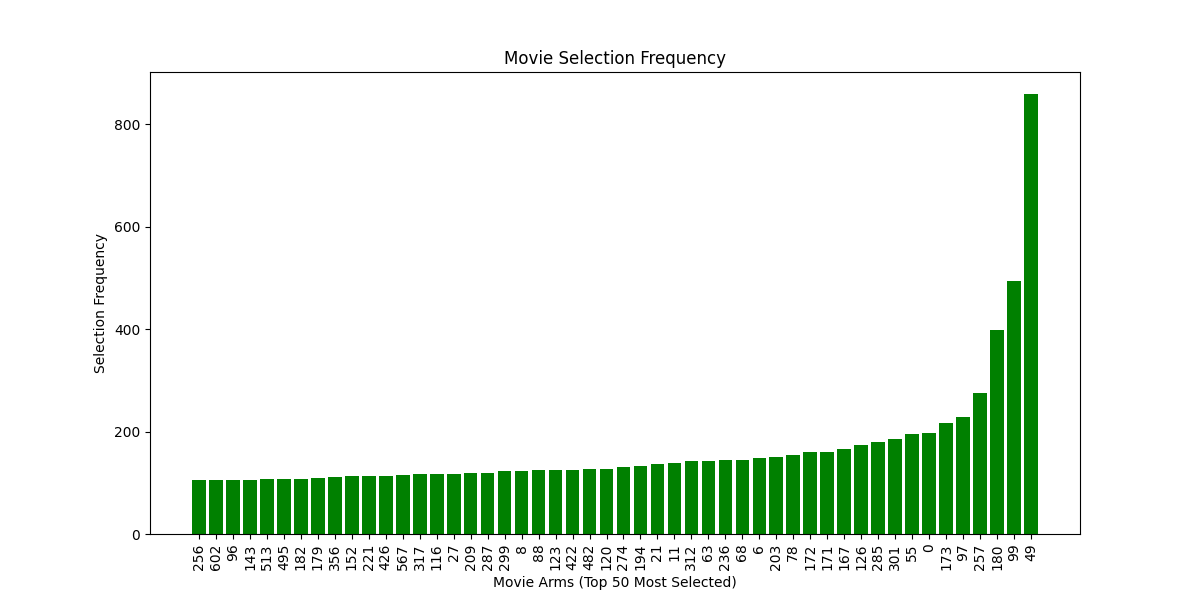
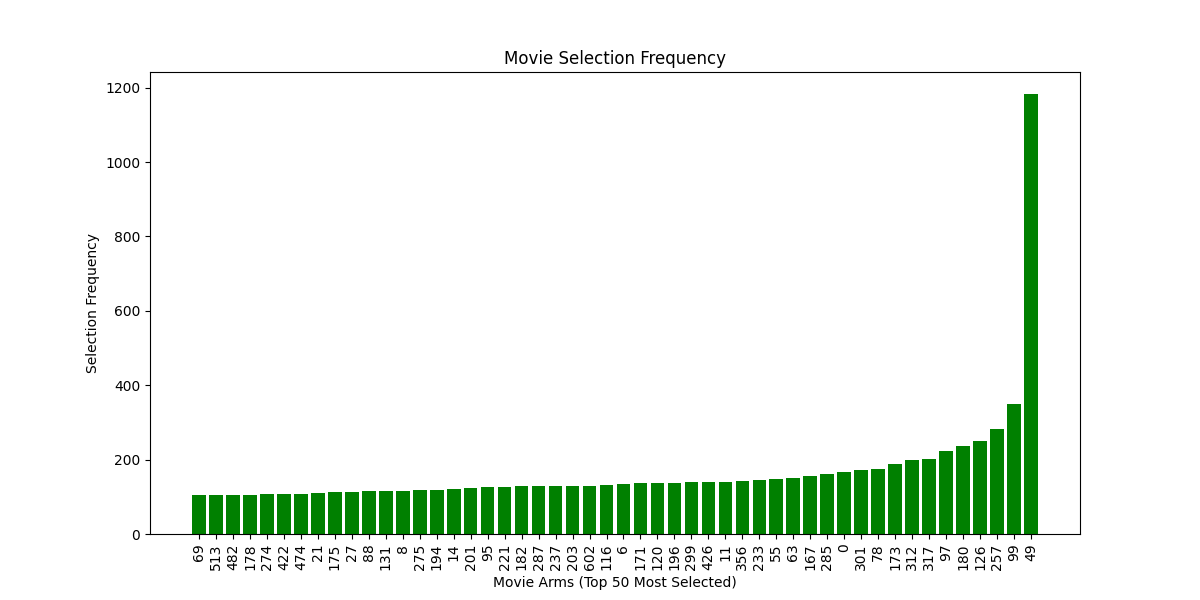
feat: updated results

diff --git a/results/report.html b/results/report.html
@@ -30,8 +30,8 @@
         <h2>Section 4: Results and Graphs</h2>
         <div class="metric-box">
             <p><strong>Total Recommendations Simulated:</strong> 100000</p>
-            <p><strong>Total Cumulative Reward:</strong> 5553.00</p>
-            <p><strong>Average Target Reward Rate:</strong> 0.0555</p>
+            <p><strong>Total Cumulative Reward:</strong> 5721.00</p>
+            <p><strong>Average Target Reward Rate:</strong> 0.0572</p>
         </div>
         
         <h3>Cumulative Reward vs. Time</h3>
@@ -45,16 +45,16 @@
 
         <h2>Section 5: Top Recommended Movies</h2>
         <ul>
-        <li>Star Wars (1977) (ID: 50) - Selected 859.0 times, Avg Reward: 0.5076</li>
-        <li>Fargo (1996) (ID: 100) - Selected 494.0 times, Avg Reward: 0.4555</li>
-        <li>Return of the Jedi (1983) (ID: 181) - Selected 399.0 times, Avg Reward: 0.4311</li>
-        <li>Contact (1997) (ID: 258) - Selected 275.0 times, Avg Reward: 0.3818</li>
-        <li>Silence of the Lambs, The (1991) (ID: 98) - Selected 229.0 times, Avg Reward: 0.3537</li>
-        <li>Raiders of the Lost Ark (1981) (ID: 174) - Selected 217.0 times, Avg Reward: 0.3456</li>
-        <li>Toy Story (1995) (ID: 1) - Selected 197.0 times, Avg Reward: 0.3299</li>
-        <li>Pulp Fiction (1994) (ID: 56) - Selected 195.0 times, Avg Reward: 0.3282</li>
-        <li>L.A. Confidential (1997) (ID: 302) - Selected 185.0 times, Avg Reward: 0.3189</li>
-        <li>English Patient, The (1996) (ID: 286) - Selected 179.0 times, Avg Reward: 0.3128</li>
+        <li>Star Wars (1977) (ID: 50) - Selected 1183.0 times, Avg Reward: 0.5359</li>
+        <li>Fargo (1996) (ID: 100) - Selected 349.0 times, Avg Reward: 0.4183</li>
+        <li>Contact (1997) (ID: 258) - Selected 283.0 times, Avg Reward: 0.3887</li>
+        <li>Godfather, The (1972) (ID: 127) - Selected 250.0 times, Avg Reward: 0.3720</li>
+        <li>Return of the Jedi (1983) (ID: 181) - Selected 237.0 times, Avg Reward: 0.3629</li>
+        <li>Silence of the Lambs, The (1991) (ID: 98) - Selected 224.0 times, Avg Reward: 0.3527</li>
+        <li>Schindler's List (1993) (ID: 318) - Selected 202.0 times, Avg Reward: 0.3366</li>
+        <li>Titanic (1997) (ID: 313) - Selected 200.0 times, Avg Reward: 0.3350</li>
+        <li>Raiders of the Lost Ark (1981) (ID: 174) - Selected 188.0 times, Avg Reward: 0.3245</li>
+        <li>Fugitive, The (1993) (ID: 79) - Selected 176.0 times, Avg Reward: 0.3125</li>
     </ul>
     </div>
 </body>
